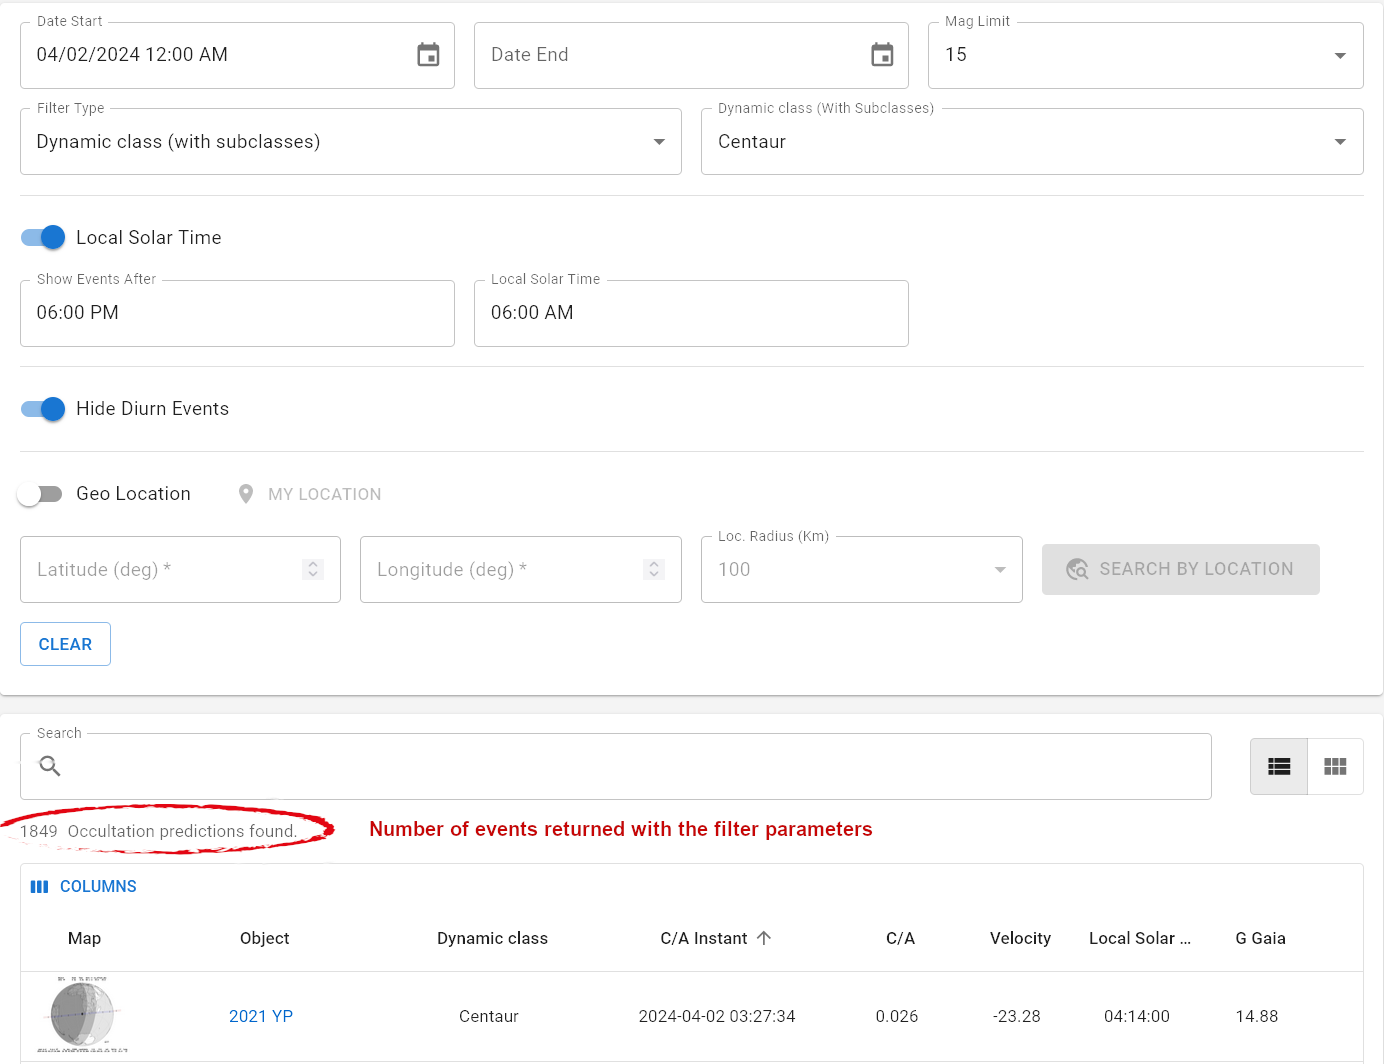
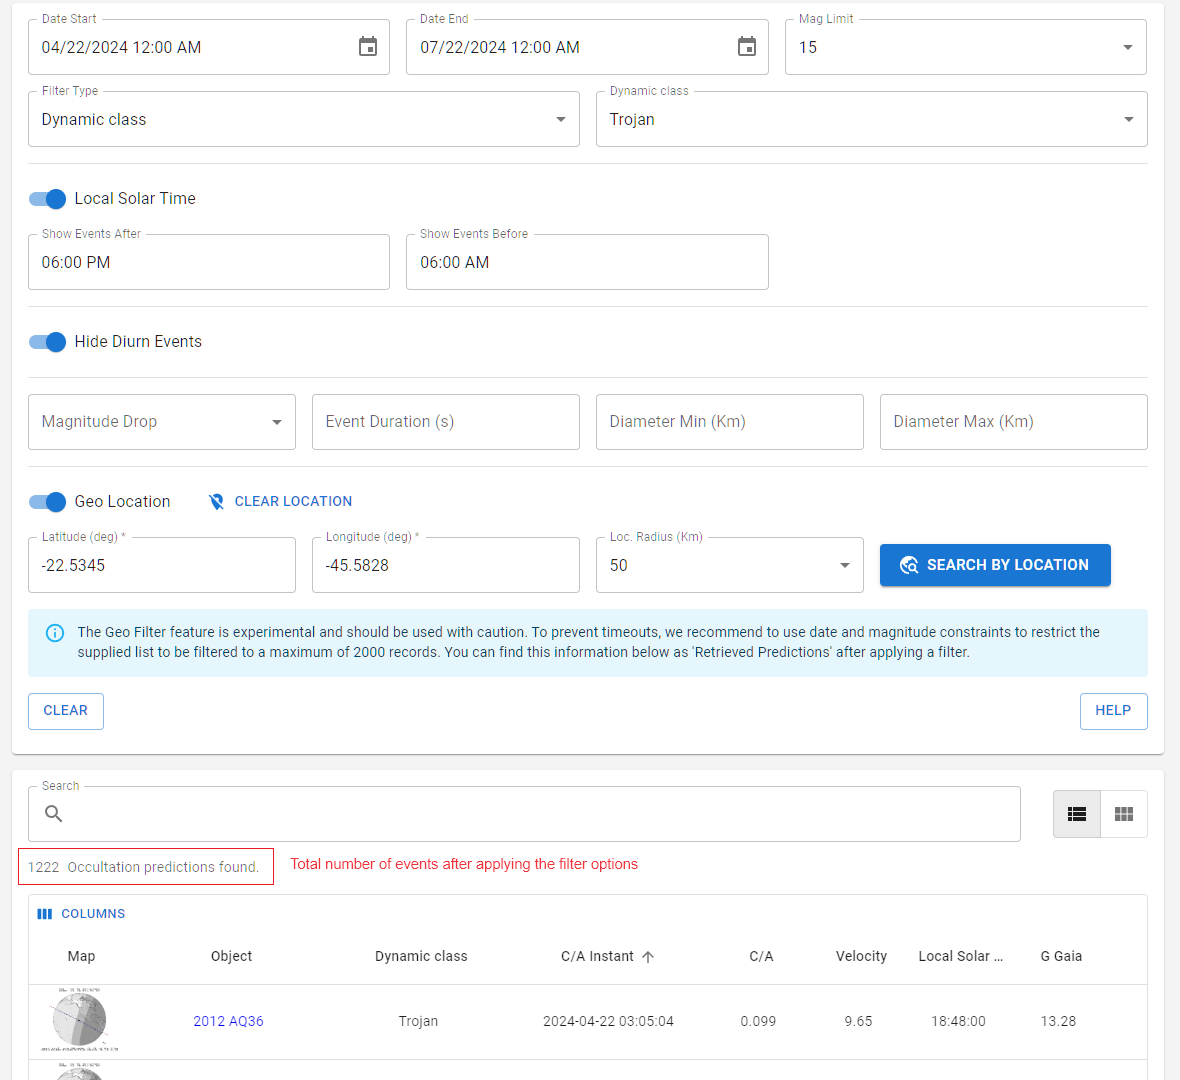
Closed #991 update filter event documentation page

diff --git a/frontend/user_docs/docs/user-guide/api.md b/frontend/user_docs/docs/user-guide/api.md
@@ -9,7 +9,7 @@ The LIneA Occultation Prediction Database (LOPD) API is a solution for querying 
 - Access geolocation filtering (experimental) for refined results, among other things.
 - Query asteroids properties, and more.
 
-The LOPD API is intended for developers, researchers, and enthusiasts looking to integrate or explore book data quickly and easily. The API uses the JSON format for requests and responses, adhering to RESTful standards for architecture and design.
+The LOPD API is intended for researchers and enthusiasts looking to integrate or explore occultation prediction events quickly and easily. The API uses the JSON format for requests and responses, adhering to RESTful standards for architecture and design.
 
 In addition to providing the schema in the OpenAPI standard, this API also offers Swagger UI and ReDoc interfaces. These interfaces are tools that allow for interactive and user-friendly visualization and testing of the API.
 

diff --git a/frontend/user_docs/docs/user-guide/filter-events.md b/frontend/user_docs/docs/user-guide/filter-events.md
@@ -26,6 +26,10 @@ On by default. When activated, it takes a step further in constraining the close
 
 On by default, it filters out occultations whose paths happen exclusively during daytime and paths that do not cross the Earth at all.
 
+### Duration and Size
+
+Provide options to filter events by the expected magnitude drop (lower limit), the event duration (lower limit, only when the object's diameter is defined) and size of the asteroid (interval, only when the object's diameter is defined).
+
 ### Geolocation Filter
 
 _The geolocation filter is experimental and is intended to be the last filter option to be applied._ Since it is computationally costly, we recomend to filter down your results using the previous filtering options to an amount of **at most 2000 events** as indicated in the image below. It can be acomplished for instance using a narrower datetime interval or set of objects.
